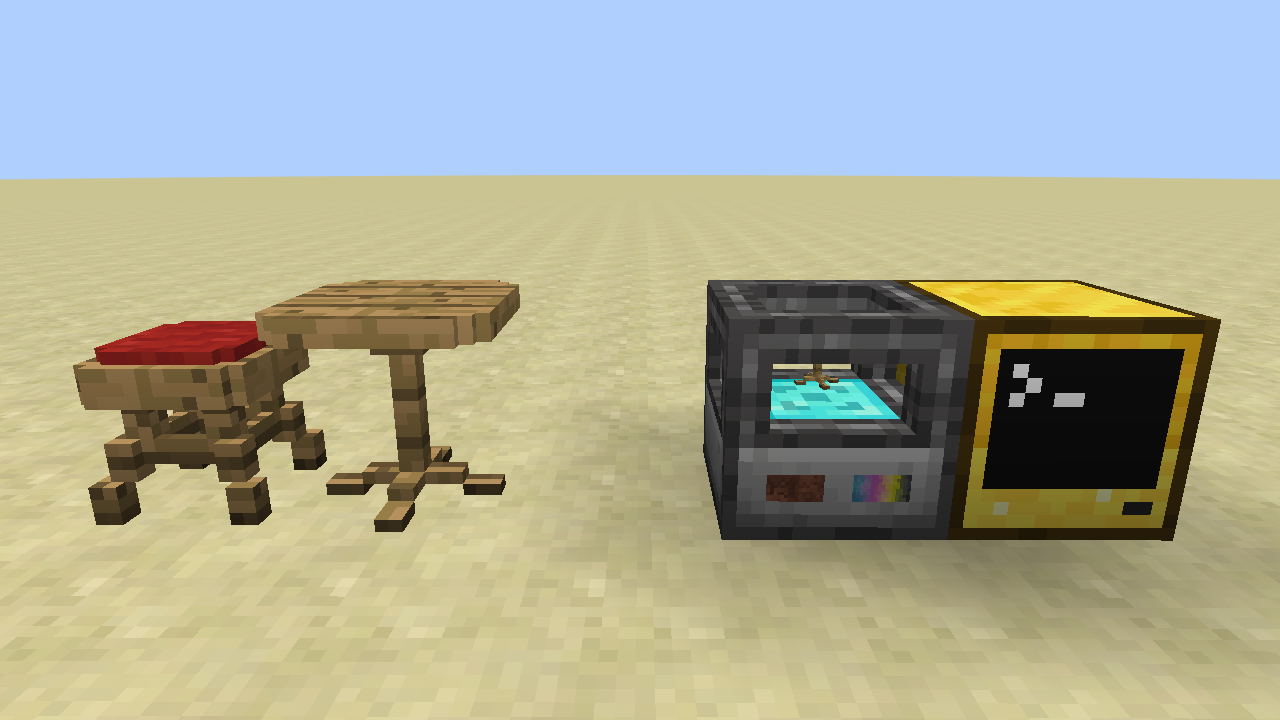
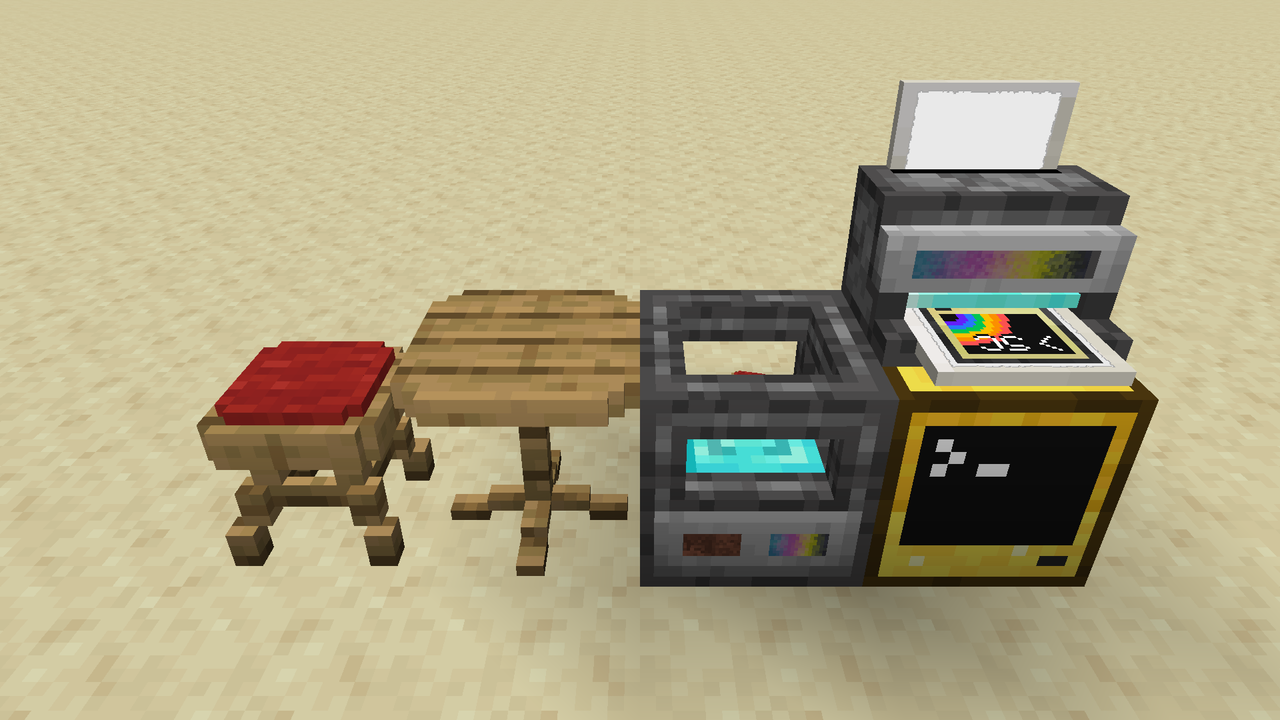
chore: update README and header image

diff --git a/README.md b/README.md
@@ -7,8 +7,9 @@
 <!-- modrinth_exclude.end -->
 
 Fabric 1.19 [CC: Tweaked](https://github.com/cc-tweaked/cc-tweaked) peripheral mod for the SwitchCraft server. 
-The main feature currently is 3D Printers in the style of 
-[OpenComputers](https://github.com/MightyPirates/OpenComputers).
+It adds a 3D printer in the style of 
+[OpenComputers](https://github.com/MightyPirates/OpenComputers), and a poster printer that prints custom images to
+display in item frames.
 
 View the documentation at [docs.sc3.io](https://docs.sc3.io/whats-new/sc-peripherals.html).
 
